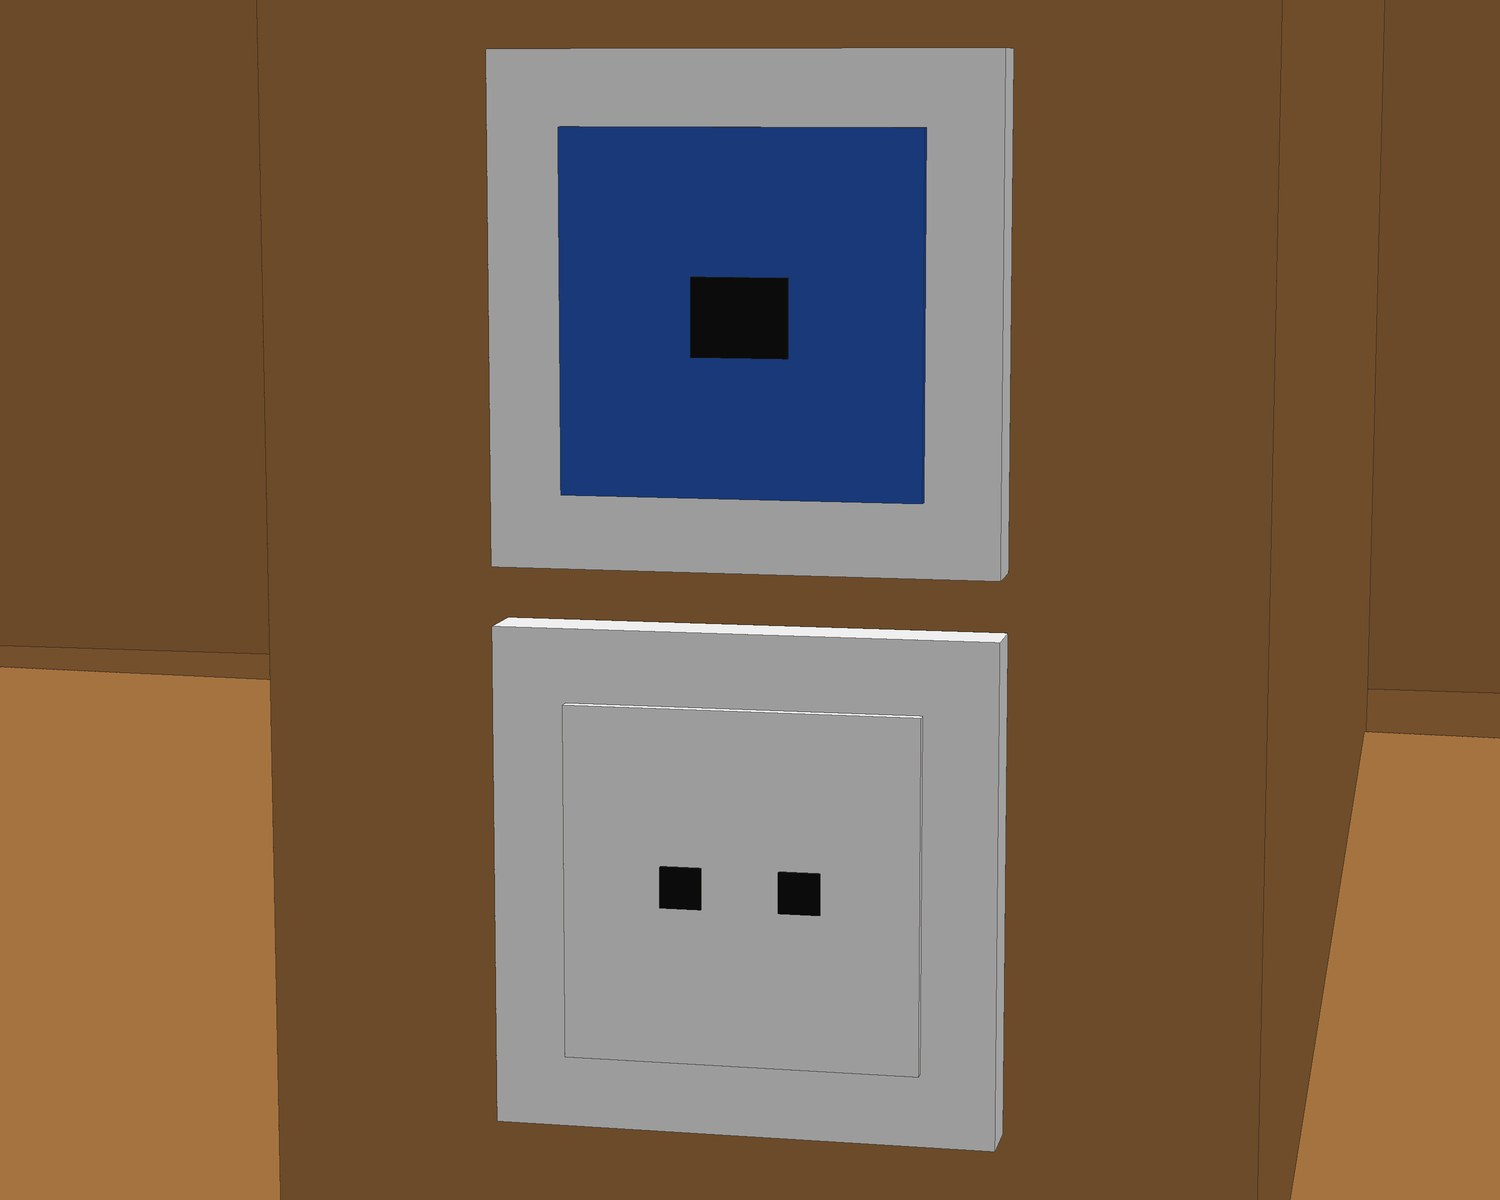
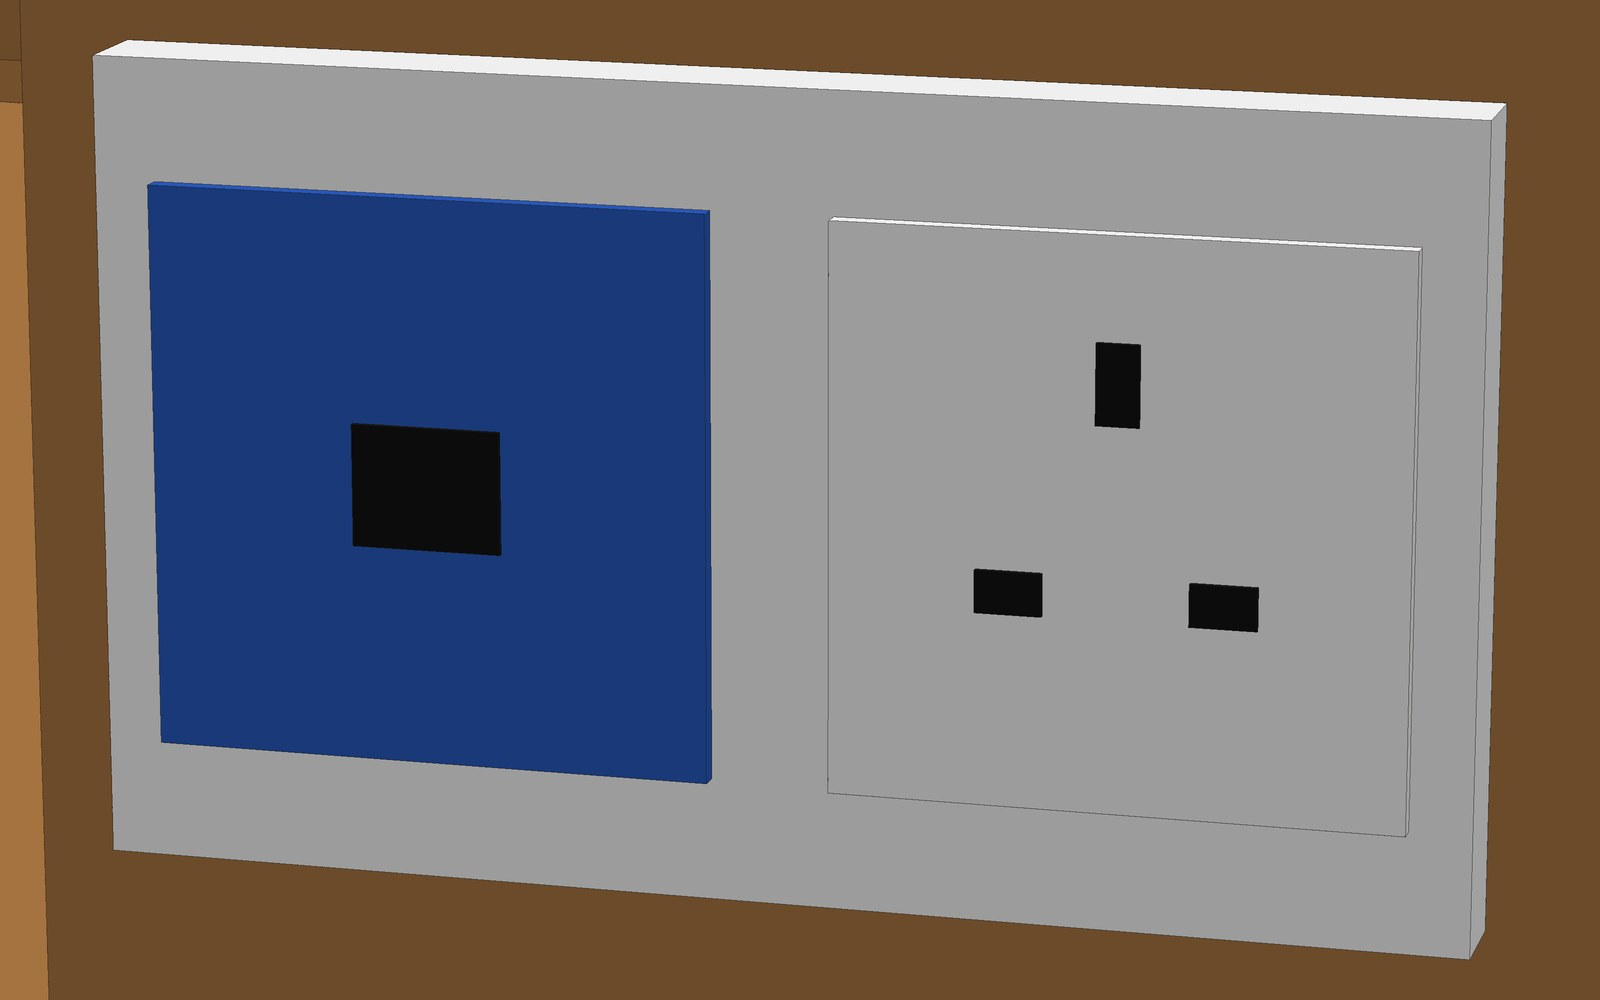
Reception desk: 2-gang UK socket + RJ45 plate on partition front faces
Claude-Session: https://claude.ai/code/session_0113K5N3bEcSHPxoNJZbabkf

diff --git a/reception-desk/index.html b/reception-desk/index.html
@@ -22,7 +22,7 @@ footer{text-align:center;color:#444;font-size:14px;padding:20px}</style></head><
 <li>الفتحة 2: <b>6 أدراج</b> (عمودان × 3) وأسفلها شريط ثابت مائل مع خط الحجر. الفتحات 3 إلى 6: <b>مكان للأرجل</b>.</li>
 <li><b>الأدراج:</b> قواطع <b>بليكسي</b> شفافة بارتفاع 5 سم مع <b>فتحة إصبع</b> – <b>كل خانة لغرفة واحدة</b> (جوازات النزلاء + بطاقة المفتاح) – 57 خانة في كل درج، المجموع <b>342 خانة لـ 330 غرفة</b> – عمق الدرج 45 سم.</li>
 <li>عرض كل عمود <b>17 سم</b> بعد الكسوة. القواطع الوسطى تقسّم سطح العمل إلى <b>رفوف</b> وتنزل مائلة نحو الحجر.</li>
-<li><b>الذراع الطويل B:</b> 4 أبواب. <b>الذراع القصير C:</b> باب واحد. الأبواب حتى ارتفاع <b>106 سم</b> وفوقها جبهة خشب، وتحتها <b>قاعدة ثابتة 20 سم</b> على كامل الطول.</li><li><b>الكهرباء:</b> في كل فتحة <b>مقبس كهرباء + مقبس شبكة إنترنت</b> (12 مقبساً) على <b>الوجه الأمامي للقاطع الخشبي</b> فوق سطح العمل (إطار + مقبس) – النوع يُؤكَّد.</li>
+<li><b>الذراع الطويل B:</b> 4 أبواب. <b>الذراع القصير C:</b> باب واحد. الأبواب حتى ارتفاع <b>106 سم</b> وفوقها جبهة خشب، وتحتها <b>قاعدة ثابتة 20 سم</b> على كامل الطول.</li><li><b>الكهرباء:</b> في كل فتحة <b>مقبس كهرباء + مقبس شبكة إنترنت</b> (12 مقبساً) على <b>الوجه الأمامي للقاطع الخشبي</b> فوق سطح العمل (إطار + مقبس) – مقبس الكهرباء بريطاني ثلاثي (BS 1363) – النوع يُؤكَّد.</li>
 <li>مقاسات الخزنتين والمقابس في المخططات تقريبية وتُؤكَّد حسب الأجهزة الفعلية. الأجزاء المائلة تُؤخذ <b>بقالب من الموقع</b>.</li></ul></div>
 <h2>صور ثلاثية الأبعاد</h2><div class="g"><figure><a href="img/r_out.jpg" target="_blank"><img src="img/r_out.jpg" loading="lazy" alt="من الخارج – جهة الضيوف"></a><figcaption>من الخارج – جهة الضيوف</figcaption></figure><figure><a href="img/r_in1.jpg" target="_blank"><img src="img/r_in1.jpg" loading="lazy" alt="من الداخل – جهة الموظف"></a><figcaption>من الداخل – جهة الموظف</figcaption></figure><figure><a href="img/r_drawer.jpg" target="_blank"><img src="img/r_drawer.jpg" loading="lazy" alt="الأدراج – خانة لكل غرفة"></a><figcaption>الأدراج – خانة لكل غرفة</figcaption></figure><figure><a href="img/r_socket.jpg" target="_blank"><img src="img/r_socket.jpg" loading="lazy" alt="تفصيل المقابس"></a><figcaption>تفصيل المقابس – كهرباء + إنترنت على القاطع</figcaption></figure><figure><a href="img/r_safe.jpg" target="_blank"><img src="img/r_safe.jpg" loading="lazy" alt="الخزانة – خزنتان"></a><figcaption>الخزانة – خزنتان</figcaption></figure><figure><a href="img/r_fridge.jpg" target="_blank"><img src="img/r_fridge.jpg" loading="lazy" alt="الذراع B من الداخل"></a><figcaption>الذراع B من الداخل</figcaption></figure><figure><a href="img/r_in2.jpg" target="_blank"><img src="img/r_in2.jpg" loading="lazy" alt="واجهة داخلية مباشرة"></a><figcaption>واجهة داخلية مباشرة</figcaption></figure><figure><a href="img/r_top.jpg" target="_blank"><img src="img/r_top.jpg" loading="lazy" alt="منظر علوي من الطرف"></a><figcaption>منظر علوي من الطرف</figcaption></figure></div>
 <h2>المخططات</h2><div class="g"><figure><a href="img/plan1.jpg" target="_blank"><img src="img/plan1.jpg" loading="lazy" alt="المسقط الأفقي – مفتاح الواجهات"></a><figcaption>المسقط الأفقي – مفتاح الواجهات</figcaption></figure><figure><a href="img/plan2.jpg" target="_blank"><img src="img/plan2.jpg" loading="lazy" alt="الواجهة الداخلية A – من جهة الموظف"></a><figcaption>الواجهة الداخلية A – من جهة الموظف</figcaption></figure><figure><a href="img/plan3.jpg" target="_blank"><img src="img/plan3.jpg" loading="lazy" alt="الذراعان من الداخل – B و C"></a><figcaption>الذراعان من الداخل – B و C</figcaption></figure><figure><a href="img/plan4.jpg" target="_blank"><img src="img/plan4.jpg" loading="lazy" alt="مقاطع – مسار التكسية الداخلية"></a><figcaption>مقاطع – مسار التكسية الداخلية</figcaption></figure><figure><a href="img/plan7.jpg" target="_blank"><img src="img/plan7.jpg" loading="lazy" alt="تفاصيل الأدراج – خانة لكل غرفة"></a><figcaption>تفاصيل الأدراج – خانة لكل غرفة</figcaption></figure><figure><a href="img/plan8.jpg" target="_blank"><img src="img/plan8.jpg" loading="lazy" alt="المواصفات وترتيب الجوازات والبطاقات"></a><figcaption>المواصفات وترتيب الجوازات والبطاقات</figcaption></figure></div>
